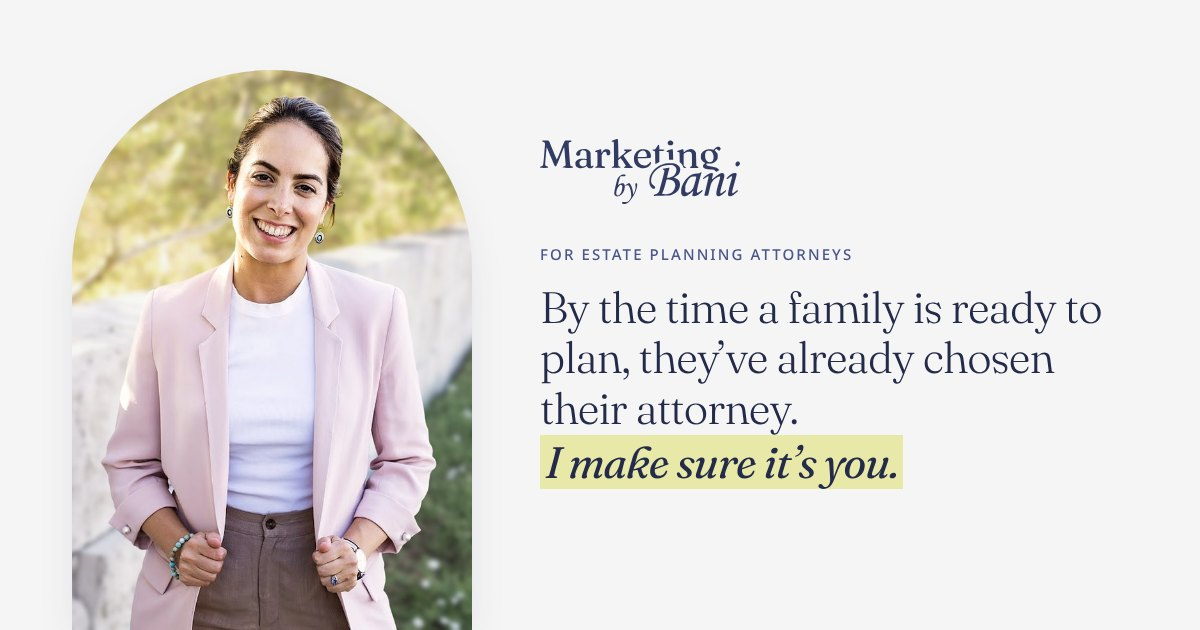
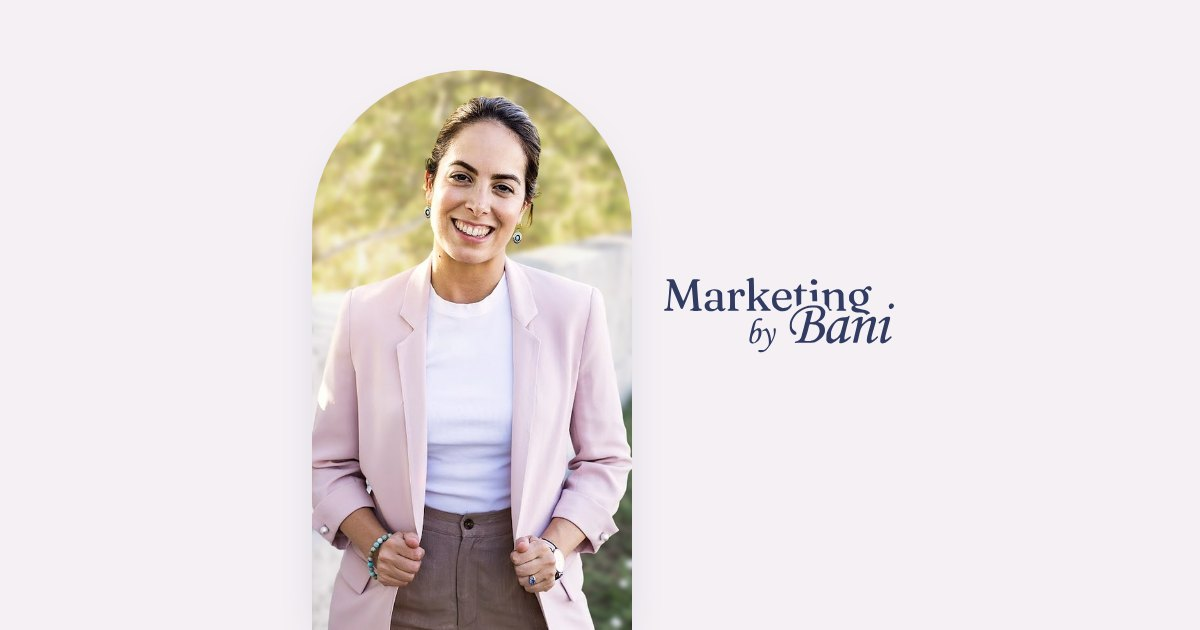
update og image

diff --git a/index.html b/index.html
@@ -12,15 +12,15 @@
 <meta property="og:type" content="website">
 <meta property="og:site_name" content="Marketing by Bani">
 <meta property="og:url" content="https://amirhoseinshahabnia.github.io/bani-homepage/">
-<meta property="og:title" content="By the time a family is ready to plan, they’ve already chosen their attorney. I make sure it’s you.">
-<meta property="og:description" content="One message, one system, run for you by a team that only works with estate planning attorneys.">
+<meta property="og:title" content="Marketing by Bani · For estate planning attorneys">
+<meta property="og:description" content="By the time a family is ready to plan, they’ve already chosen their attorney. I make sure it’s you.">
 <meta property="og:image" content="https://amirhoseinshahabnia.github.io/bani-homepage/og-image.jpg">
 <meta property="og:image:width" content="1200">
 <meta property="og:image:height" content="630">
-<meta property="og:image:alt" content="Bani, founder of Marketing by Bani, beside the headline: I make sure it’s you.">
+<meta property="og:image:alt" content="Bani, founder of Marketing by Bani, with the Marketing by Bani logo">
 <meta name="twitter:card" content="summary_large_image">
 <meta name="twitter:title" content="Marketing by Bani · For estate planning attorneys">
-<meta name="twitter:description" content="One message, one system, run for you by a team that only works with estate planning attorneys.">
+<meta name="twitter:description" content="By the time a family is ready to plan, they’ve already chosen their attorney. I make sure it’s you.">
 <meta name="twitter:image" content="https://amirhoseinshahabnia.github.io/bani-homepage/og-image.jpg">
 <meta name="theme-color" content="#F5F5F5">
 <link rel="preconnect" href="https://fonts.googleapis.com">
